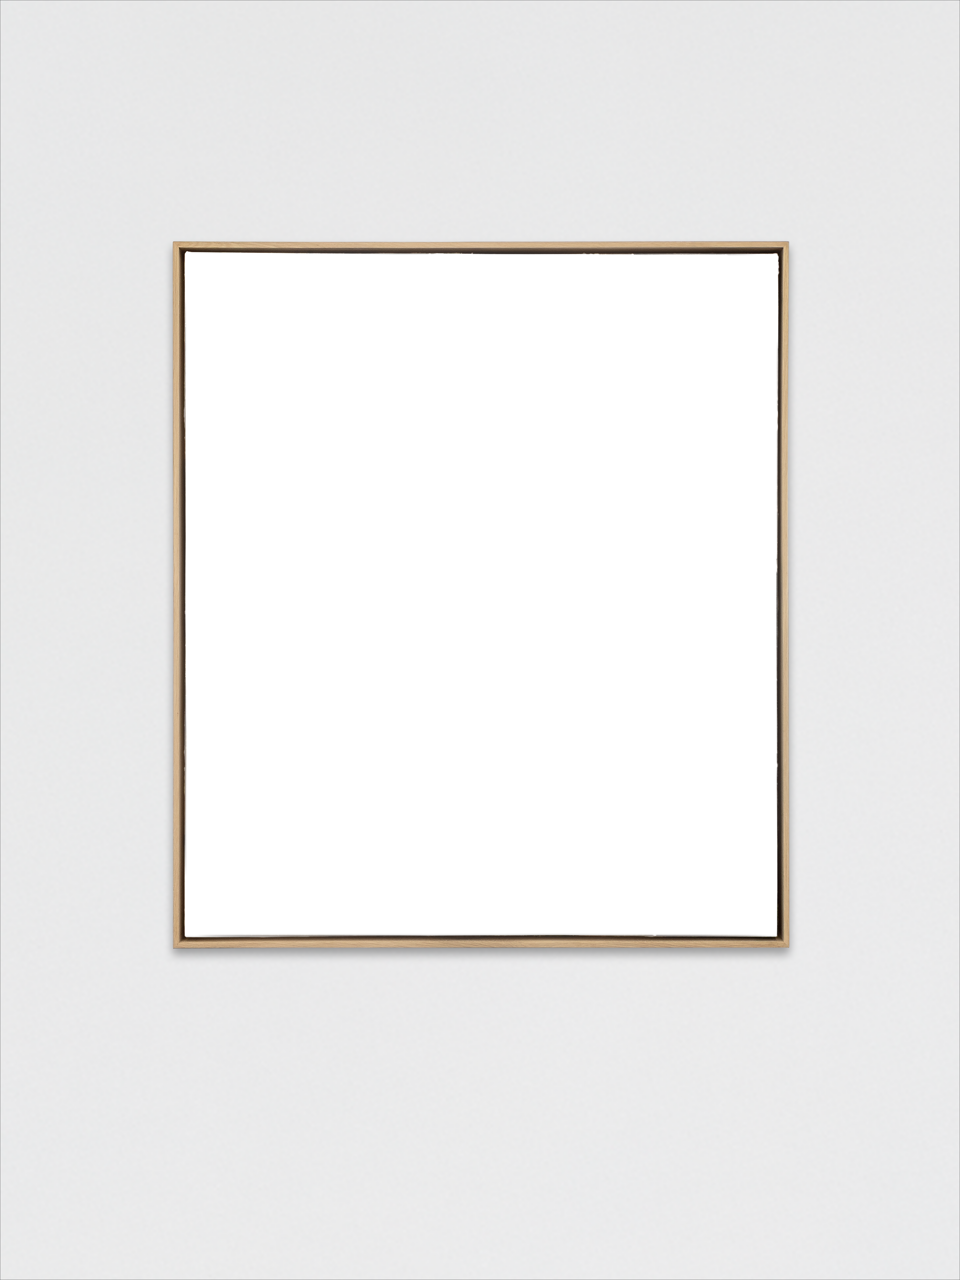
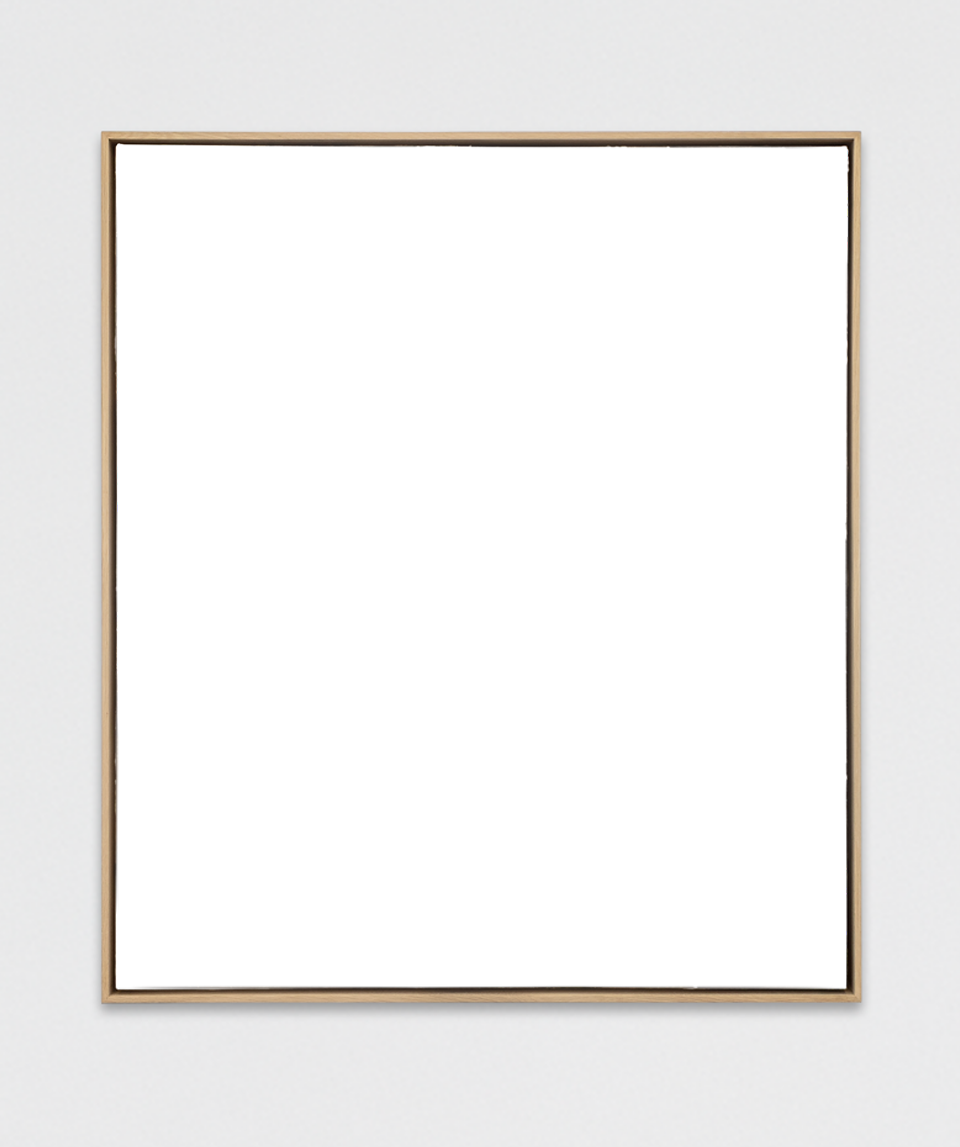
updated some template crops

Changed region(s): [[0.0938, 0.0915, 0.9062, 0.8849], [0.1562, 0.1831, 0.8438, 0.7629]]

diff --git a/index.html b/index.html
@@ -167,7 +167,7 @@
     <option value="ckt-template-120x190" data-full-dark="ckt-template-120x190-full-dark.png" data-full-light="ckt-template-120x190-full-light.png">ckt-template-120x190 (full only)</option>
     <option value="ckt-template-150x120" data-full-dark="ckt-template-150x120-full-dark.png" data-full-light="ckt-template-150x120-full-light.png">ckt-template-150x120 (full only)</option>
     <option value="ckt-template-160x135" data-full-dark="ckt-template-160x135-full-dark.png" data-full-light="ckt-template-160x135-full-light.png">ckt-template-160x135 (full only)</option>
-    <option value="ckt-template-215x165" data-full-dark="ckt-template-215x165-full-dark.png" data-full-light="ckt-template-215x165-full-light.png" selected>ckt-template-215x165 (full only)</option>
+    <option value="ckt-template-215x165" data-full-dark="ckt-template-215x165-full-dark.png" data-full-light="ckt-template-215x165-full-light.png" data-close-dark="ckt-template-215x165-close-dark.png" data-close-light="ckt-template-215x165-close-light.png" selected>ckt-template-215x165 (full, close)</option>
     <option value="ckt-template-50x40" data-full-dark="ckt-template-50x40-full-dark.png" data-full-light="ckt-template-50x40-full-light.png" data-close-dark="ckt-template-50x40-close-dark.png" data-close-light="ckt-template-50x40-close-light.png">ckt-template-50x40 (full, close)</option>
     <option value="ckt-template-55x55" data-full-light="ckt-template-55x55-full-light.png" data-close-light="ckt-template-55x55-close-light.png" data-crop-light="ckt-template-55x55-crop-light.png">ckt-template-55x55 (full, close, crop)</option>
     <option value="ckt-template-60x50" data-full-dark="ckt-template-60x50-full-dark.png" data-full-light="ckt-template-60x50-full-light.png" data-close-dark="ckt-template-60x50-close-dark.png" data-close-light="ckt-template-60x50-close-light.png">ckt-template-60x50 (full, close)</option>
